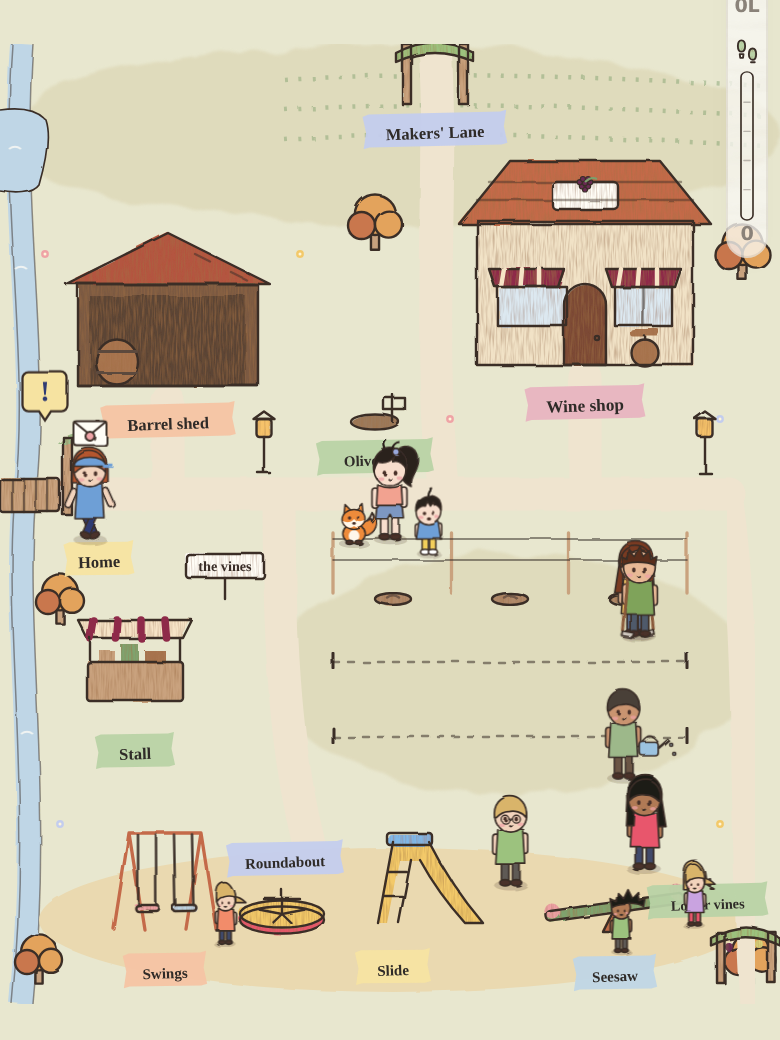
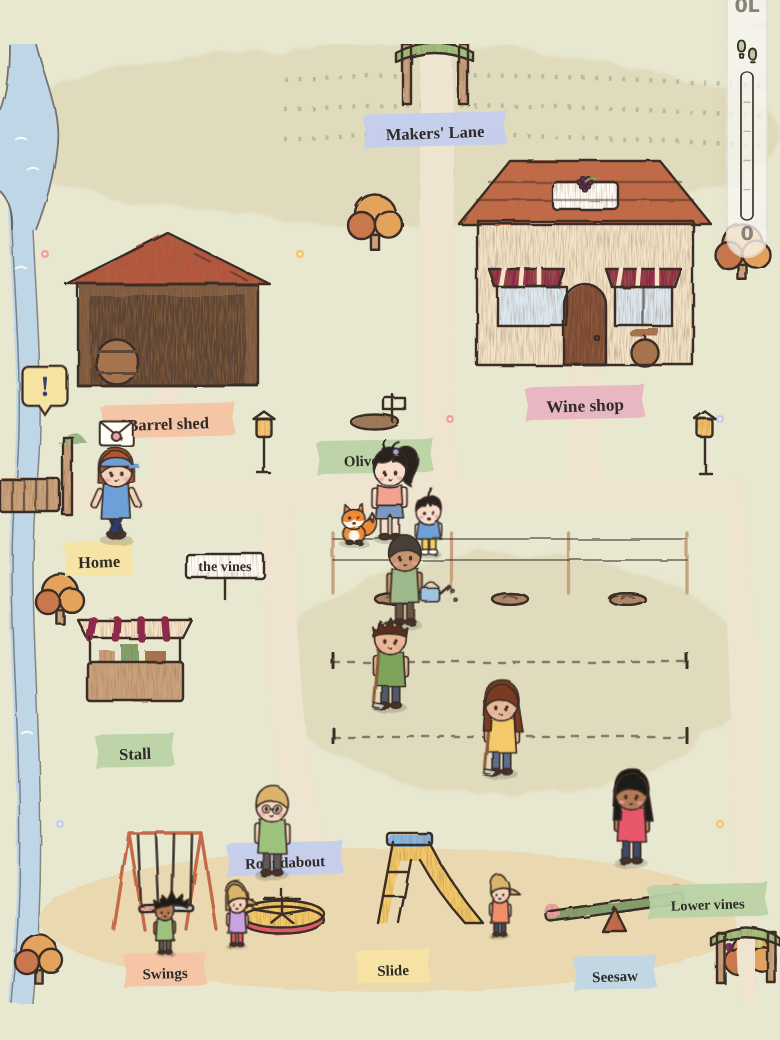
Vineyard: the stream widens into the river and forks, instead of a river blob on top of it
Claude-Session: https://claude.ai/code/session_017gYbhpw6TbdTF5ufLgYzyp

diff --git a/maple-village/src/art/vineyard.js b/maple-village/src/art/vineyard.js
@@ -114,8 +114,9 @@ export function vineyardArt(){
     <g filter="url(#wob)" fill="none" opacity=".45" style="stroke:var(--moss2)" stroke-width="3" stroke-dasharray="2 7">${[24, 44, 64].map(y => `<path d="M190 ${y} Q300 ${y - 8} 510 ${y + 4}"/>`).join("")}</g>
     <g filter="url(#wob)"><path d="M14 0 C6 110 26 210 16 300 C8 390 28 500 14 640" fill="none" style="stroke:var(--water)" stroke-width="16"/><path d="M8 0 C0 110 20 210 10 300 C2 390 22 500 8 640 M22 0 C14 110 34 210 24 300 C16 390 36 500 22 640" fill="none" style="stroke:var(--line)" stroke-width="1" opacity=".5"/></g>
     <path class="ripple" d="M10 150 q4 -3 8 0 M14 460 q4 -3 8 0" fill="none" style="stroke:#FFFDF6" stroke-width="1.2" opacity=".8"/>
-    <g filter="url(#wob)"><path d="M0 44 C14 42 24 44 30 50 C34 62 30 80 26 94 C22 100 10 100 0 98z" style="fill:var(--water)"/><path d="M0 44 C14 42 24 44 30 50 C34 62 30 80 26 94 C22 100 10 100 0 98" fill="none" style="stroke:var(--line)" stroke-width="1.1"/></g>
-    <path class="ripple" d="M6 70 q4 -3 8 0" fill="none" style="stroke:#FFFDF6" stroke-width="1.2" opacity=".8"/>
+    <g filter="url(#wob)"><path d="M6 0 H24 C30 24 40 44 38 66 C36 90 30 108 24 124 H8 C9 112 6 104 0 98 V44 C4 34 6 20 6 0Z" style="fill:var(--water)"/>
+      <path d="M24 0 C30 24 40 44 38 66 C36 90 30 108 24 124 M6 0 C6 20 4 34 0 44 M0 98 C6 104 9 112 8 124" fill="none" style="stroke:var(--line)" stroke-width="1.2" opacity=".6"/></g>
+    <path class="ripple" d="M10 64 q4 -3 8 0 M18 84 q4 -3 8 0" fill="none" style="stroke:#FFFDF6" stroke-width="1.2" opacity=".8"/>
     <g filter="url(#wob)"><path d="M24 300 H486 M112 300 V238 M390 300 V222 M186 300 C186 400 190 480 210 548 M290 0 C296 100 284 200 296 300" fill="none" style="stroke:var(--path)" stroke-width="22" stroke-linecap="round"/></g>
     ${flowers([[30,140,"#EFA3A6"],[200,140,"#F3C969"],[480,250,"#C3CDEE"],[490,330,"#EFA3A6"],[150,350,"#F3C969"],[40,520,"#C3CDEE"],[480,520,"#F3C969"],[300,250,"#EFA3A6"]])}
     ${tree(250,130,.9)}${tree(495,150,.9)}${tree(26,620,.8)}${tree(500,620,.85)}${tree(40,380,.8)}`;

diff --git a/maple-village/HANDOFF.md b/maple-village/HANDOFF.md
@@ -2760,3 +2760,6 @@ Mel: villagers' story chapters read as broken-up speech without context; thank-y
 ## Round 267: bike hire and a paddleboard jetty on the bottom row (Mel: "one or some of the new screens need the bike hire. And a paddleboard jetty too at the lighthouse screen")
 - transport.js `transportArt`: bike racks `bikesgreen` (green, by the pond path) and `bikeslight` (Lighthouse Point, mid-screen); same bike panel as the others.
 - `supJetty()` at Lighthouse Point (`lsup`): a jetty out into the bottom sea and a board rack. Its jetty panel (goals.js `jettyPanel("lighthouse")`) paddles to the foreshore or home; the foreshore's panel gains "Paddle to Lighthouse Point". `JETTY.lighthouse`, and `paddleTo` lines for the coast.
+
+## Round 268: the river fork in the vineyard (Mel: "The overlap between the wide river and the little stream is weird. That's not how nature would work")
+- art/vineyard.js: the separate river blob is gone. One shape at the top left: the stream from Makers' Lane widens into the river, which leaves by the west edge (y 44 to 98, meeting home's river), and a narrower branch carries on down the left side. Continuous banks, no overlap.
